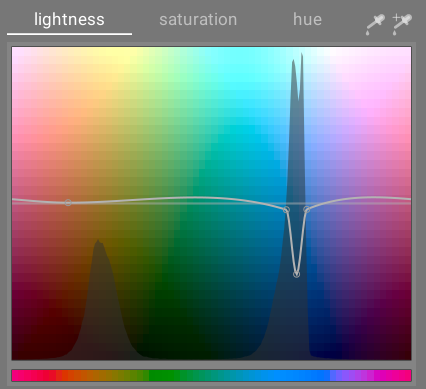
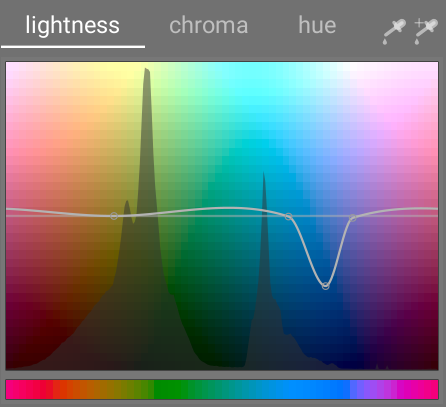
color-zones: use new terminology saturation -> chroma

diff --git a/content/module-reference/processing-modules/color-zones.md b/content/module-reference/processing-modules/color-zones.md
@@ -1,18 +1,18 @@
 ---
 title: color zones
 id: color-zones
-applicable-version: 3.8
+applicable-version: 4.6
 tags: 
 working-color-space: Lab
 view: darkroom
 masking: true
 ---
 
-Selectively adjust the lightness, saturation and hue of pixels based on their current lightness, saturation and hue.
+Selectively adjust the lightness, chroma and hue of pixels based on their current lightness, chroma and hue.
 
-This module works in CIE LCh color space, which separates pixels into _lightness_, chroma (_saturation_) and _hue_ components. It allows you to manipulate the lightness, saturation and hue of targeted groups of pixels through the use of [curves](../../darkroom/processing-modules/curves.md).
+This module works in CIE LCh color space, which separates pixels into _lightness_, chroma and _hue_ components. It allows you to manipulate the lightness, chroma and hue of targeted groups of pixels through the use of [curves](../../darkroom/processing-modules/curves.md).
 
-You first need to choose whether you wish to adjust (select) pixels based on their lightness, saturation or hue. You can then use three curves, on their respective tabs, to adjust the lightness, saturation and hue of ranges of pixels selected via this method.
+You first need to choose whether you wish to adjust (select) pixels based on their lightness, chroma or hue. You can then use three curves, on their respective tabs, to adjust the lightness, chroma and hue of ranges of pixels selected via this method.
 
 ---
 
@@ -34,33 +34,33 @@ select by lightness
 
 : ![color zones choose lightness](./color-zones/color-zones-choose-lightness.png#w33)
 
-select by saturation
-: Select pixels to manipulate based on their saturation. For example, you may want to tone down the saturation of some already highly saturated pixels, or to change their hue. The following image shows the range of saturation levels that you can choose to operate on, from a completely unsaturated monochrome gray through to the most highly saturated color:
+select by chroma
+: Select pixels to manipulate based on their chroma. For example, you may want to tone down the chroma of some already highly saturated pixels, or to change their hue. The following image shows the range of chroma levels that you can choose to operate on, from a completely unsaturated monochrome gray through to the most highly saturated color:
 
-: ![color zones choose saturation](./color-zones/color-zones-choose-saturation.png#w33)
+: ![color zones choose chroma](./color-zones/color-zones-choose-chroma.png#w33)
 
 # pixel manipulation curves
 
-Once you have chosen a pixel selection method, the selected range of lightness, saturation or hue levels will appear along the horizontal axis of the three pixel manipulation curves, which can be viewed and adjusted by choosing the appropriate tab (lightness, saturation, hue). 
+Once you have chosen a pixel selection method, the selected range of lightness, chroma or hue levels will appear along the horizontal axis of the three pixel manipulation curves, which can be viewed and adjusted by choosing the appropriate tab (lightness, chroma, hue). 
 
 If, for example, you were to choose to _select by hue_ (the default), the horizontal axis (below the manipulation curves) would show the range of hues you can work with, and the three pixel manipulation curves would appears as follows:
 
 lightness
-: By adjusting the lightness curve up or down in a given (hue) location, you can brighten or darken pixels matching hues where the curve has been raised or lowered, respectively. In the example below the blue sky in an image has been darkened for dramatic effect:
+: By adjusting the lightness curve up or down in a given (hue) location, you can brighten or darken pixels matching hues where the curve has been raised or lowered, respectively. The example below reduces the lightness of the blue parts of the image:
 
 : ![color zones adjust lightness](./color-zones/color-zones-adjust-lightness.png#w33)
 
-saturation
-: By adjusting the saturation curve up or down in a given (hue) location, you can desaturate (make less colorful) or resaturate (make more colorful) pixels matching hues where the curve has been raised or lowered, respectively. In the example below, a red object in the background has been desaturated so it is less of a distraction to the main subject of the photo:
+chroma
+: By adjusting the chroma curve up or down in a given (hue) location, you can desaturate (make less colorful) or resaturate (make more colorful) pixels matching hues where the curve has been raised or lowered, respectively. The example below reduces the chroma of the red parts of the image:
 
-: ![color zones adjust saturation](./color-zones/color-zones-adjust-saturation.png#w33)
+: ![color zones adjust chroma](./color-zones/color-zones-adjust-chroma.png#w33)
 
 hue
-: By adjusting the hue curve up or down in a given (hue) location, you can shift the hue of pixels matching hues where the curve has been raised or lowered, allowing you to replace one color with another. In the example below, a pink toy in an image has been changed to blue:
+: By adjusting the hue curve up or down in a given (hue) location, you can shift the hue of pixels matching hues where the curve has been raised or lowered, allowing you to replace one color with another. The example below shifts the blue parts of the image to green:
 
 : ![color zones adjust hue](./color-zones/color-zones-adjust-hue.png#w33)
 
-The curves work similarly in the lightness- and saturation-based selection modes as well. See the section on [curves](../../darkroom/processing-modules/curves.md) to see how spline curves work in general.
+The curves work similarly in the lightness- and chroma-based selection modes as well. See the section on [curves](../../darkroom/processing-modules/curves.md) to see how spline curves work in general.
 
 Note that these examples are somewhat contrived in order to illustrate the module's usage. In practical use, they would likely need to be combined with [drawn](../../darkroom/masking-and-blending/masks/drawn.md) and/or [parametric](../../darkroom/masking-and-blending/masks/parametric.md) masks to further isolate their effect. 
 
@@ -78,8 +78,8 @@ If you click on the right-hand color picker, you can similarly choose a rectangu
 
 The following controls are available in the _color zones_ module:
 
-lightness, saturation & hue tabs
-: Each tab displays a pixel manipulation curve to allow you to alter “lightness”, “saturation”, or “hue” based on the pixel selection method.
+lightness, chroma & hue tabs
+: Each tab displays a pixel manipulation curve to allow you to alter “lightness”, “chroma”, or “hue” based on the pixel selection method.
 
 edit by area
 : Choose how to interact with the curve. This setting is disabled by default, allowing the control points for the curve to be freely placed. Check the box to fall back to the legacy "edit by area" mode, which functions in a similar way to the spline curve controls used in [wavelet](../../darkroom/processing-modules/wavelets.md#spline-controls) modules.
@@ -88,7 +88,7 @@ edit by area
 : Enable the _mask display_ to highlight pixels that have been affected by _color zones_ adjustments in yellow.
 
 select by
-: Define the horizontal axis (the range of values to work on). You can choose between “lightness”, “saturation”, and “hue” (the default). Changing this parameter resets all pixel manipulation curves to their default state (horizontal straight lines). If you want to work on multiple ranges, you need to create additional instances of the module.
+: Define the horizontal axis (the range of values to work on). You can choose between “lightness”, “chroma”, and “hue” (the default). Changing this parameter resets all pixel manipulation curves to their default state (horizontal straight lines). If you want to work on multiple ranges, you need to create additional instances of the module.
 
 process mode
 : Choose between a “smooth” (default) or “strong” processing mode. The default mode is less likely to cause artifacts.
